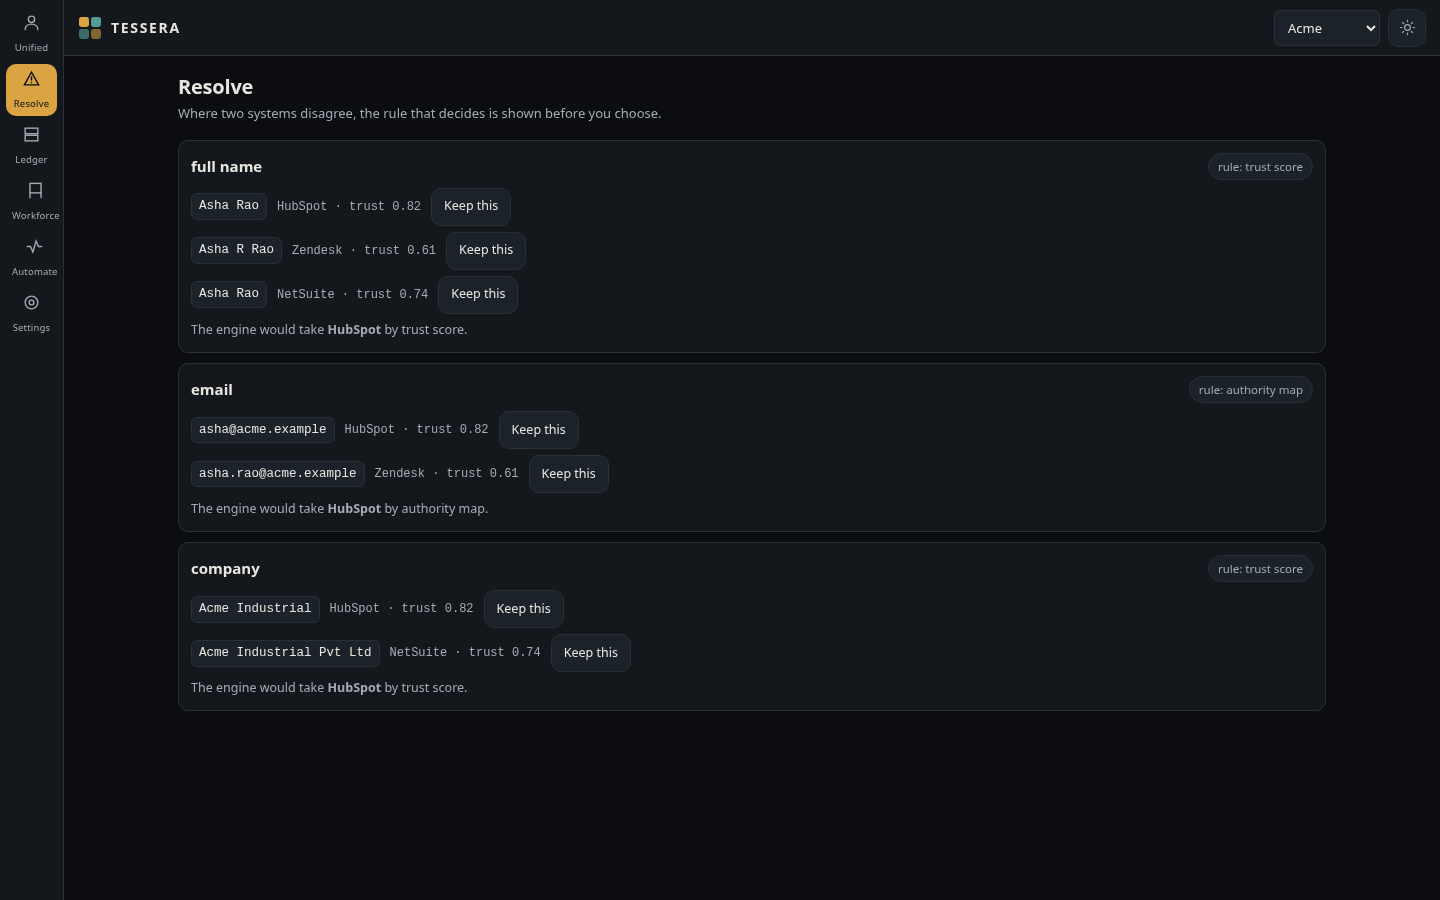
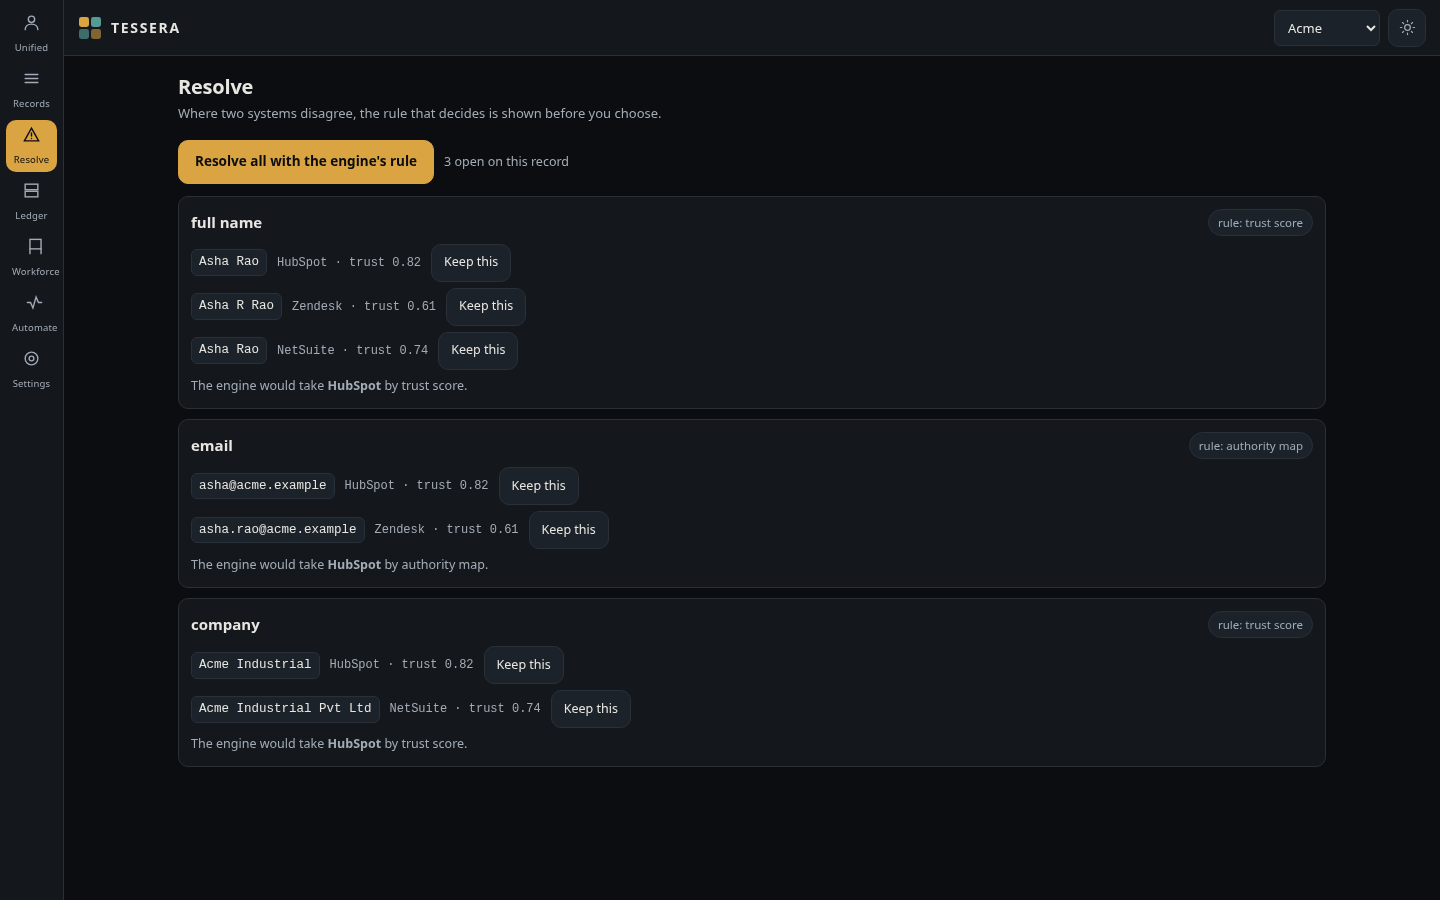
resolve: bulk action, and undo as a compensating event
- One button applies the engine's own rule to every open conflict on a record,
  as a single ledger event, and says how many it took.
- Resolving a field, or all of them, shows Undo in the toast for nine seconds.
  Undo writes conflict.reopened and restores the previous state; the original
  choice stays in the chain.

Every other tool in this category implements undo as a state rollback. In an
append-only ledger the honest version is a new event that reverses the old one,
and it is the version that survives an audit. The app now demonstrates that
rather than describing it.

diff --git a/index.html b/index.html
@@ -204,7 +204,10 @@ a{color:var(--accent)}
 #toast{position:fixed;left:50%;transform:translateX(-50%);bottom:calc(74px + env(safe-area-inset-bottom));
   background:var(--raise);border:1px solid var(--line);border-radius:999px;padding:10px 16px;font-size:13px;
   opacity:0;pointer-events:none;transition:opacity var(--base);z-index:60;max-width:92vw}
-#toast[data-show]{opacity:1}
+#toast[data-show]{opacity:1;pointer-events:auto}
+#toast .undo{margin-left:12px;border:1px solid var(--accent);color:var(--accent);
+  border-radius:999px;padding:4px 12px;font-size:12px;font-weight:600}
+#toast .undo:hover{background:var(--accent);color:var(--accent-ink)}
 
 /* ---- small screens ------------------------------------------------------- */
 @media (max-width:860px){
@@ -344,6 +347,10 @@ a{color:var(--accent)}
     <section class="view" id="conflicts">
       <h1>Resolve</h1>
       <p class="sub">Where two systems disagree, the rule that decides is shown before you choose.</p>
+      <div class="row" style="margin-bottom:12px">
+        <button class="btn primary" id="resolveAll">Resolve all with the engine's rule</button>
+        <span class="note" id="conflictSummary"></span>
+      </div>
       <div id="conflictList"></div>
     </section>
 
@@ -760,12 +767,20 @@ async function verifyChain() {
 }
 
 /* ---- rendering ---------------------------------------------------------- */
-function toast(message) {
+function toast(message, onUndo) {
   const el = $("#toast");
-  el.textContent = message;
+  el.textContent = "";
+  el.append(document.createTextNode(message));
+  if (onUndo) {
+    const button = document.createElement("button");
+    button.className = "undo";
+    button.textContent = "Undo";
+    button.onclick = () => { el.removeAttribute("data-show"); onUndo(); };
+    el.append(button);
+  }
   el.setAttribute("data-show", "");
   clearTimeout(toast._t);
-  toast._t = setTimeout(() => el.removeAttribute("data-show"), 2400);
+  toast._t = setTimeout(() => el.removeAttribute("data-show"), onUndo ? 9000 : 2400);
 }
 
 function currentValue(field) {
@@ -891,12 +906,67 @@ function renderTimeline() {
     <li><time>${item.at} · ${NODES[item.node].label}</time><p>${item.text}</p></li>`).join("");
 }
 
+function engineWinner(field) {
+  const candidates = RECORD[field] || {};
+  const authority = Object.fromEntries(Object.entries(candidates).map(([node]) =>
+    [node, NODES[node].authority[field] || "bidirectional"]));
+  return resolveField(field, candidates, authority);
+}
+
+async function resolveFieldTo(field, node) {
+  const key = state.selected + "|" + field;
+  const before = state.resolved[key];
+  state.resolved[key] = node;
+  save();
+  await appendEvent("conflict.resolved", "human", { field, winner: node });
+  renderAll();
+  toast(`Kept ${NODES[node].label} for ${field.replace(/_/g, " ")}`, async () => {
+    if (before === undefined) delete state.resolved[key];
+    else state.resolved[key] = before;
+    save();
+    await appendEvent("conflict.reopened", "human", { field, was: node });
+    renderAll();
+    toast("Reverted - the conflict is open again");
+  });
+}
+
+async function resolveAll() {
+  const fields = Object.keys(RECORD).filter(isConflict);
+  if (!fields.length) { toast("Nothing to resolve on this record"); return; }
+  const before = { ...state.resolved };
+  const winners = {};
+  for (const field of fields) {
+    const winner = engineWinner(field);
+    state.resolved[state.selected + "|" + field] = winner.node;
+    winners[field] = winner.node;
+  }
+  save();
+  await appendEvent("conflict.bulk_resolved", "human", { fields: fields.length, winners });
+  renderAll();
+  toast(`${fields.length} resolved by the engine's rule`, async () => {
+    state.resolved = before;
+    save();
+    await appendEvent("conflict.bulk_reopened", "human", { fields: fields.length });
+    renderAll();
+    toast("Reverted - every conflict is open again");
+  });
+}
+
 function renderConflicts() {
   const host = $("#conflictList");
   const fields = Object.keys(RECORD).filter(isConflict);
+  $("#conflictSummary").textContent = fields.length
+    ? `${fields.length} open on this record`
+    : "nothing open on this record";
+  $("#resolveAll").disabled = fields.length === 0;
+  $("#resolveAll").style.opacity = fields.length === 0 ? ".5" : "1";
   if (!fields.length) {
     host.innerHTML = `<div class="card"><div class="body"><p class="note">
-      Nothing to resolve. Every field agrees, or you have already chosen.</p></div></div>`;
+      Nothing to resolve. Every field agrees, or you have already chosen.
+      <button class="rowaction" id="toRecords" style="margin-left:10px">Pick another customer</button>
+      </p></div></div>`;
+    const jump = $("#toRecords");
+    if (jump) jump.onclick = () => go("records");
     return;
   }
   host.innerHTML = fields.map(field => {
@@ -919,13 +989,9 @@ function renderConflicts() {
     </div>`;
   }).join("");
   $$("[data-pick]", host).forEach(btn => {
-    btn.onclick = async () => {
+    btn.onclick = () => {
       const [field, node] = btn.dataset.pick.split("|");
-      state.resolved[state.selected + "|" + field] = node;
-      save();
-      await appendEvent("conflict.resolved", "human", { field, winner: node });
-      renderAll();
-      toast(`Kept ${NODES[node].label}'s value for ${field.replace(/_/g, " ")}`);
+      resolveFieldTo(field, node);
     };
   });
 }
@@ -1173,6 +1239,8 @@ $("#reset").onclick = async () => {
 };
 
 /* ---- workforce actions -------------------------------------------------- */
+$("#resolveAll").onclick = () => resolveAll();
+
 $("#assign").onclick = async () => {
   const best = SEATS.map(seat => ({ seat, ...routeScore({
     capability_match: seat.capability, authority_match: 1, sla_headroom: 1 - seat.load,

diff --git a/ENHANCEMENTS.md b/ENHANCEMENTS.md
@@ -13,7 +13,7 @@ Ordered by what a person would notice first.
 |---|---|---|---|
 | 1 | ~~**Real record search**~~ — a `/` search over all records with keyboard selection | **Shipped in 1.2.0.** Ten records, `/` to search, Enter to open | done |
 | 2 | **Multi-record list** — shipped in 1.2.0. **Saved views** (filter, sort, save, restore) still open | Turns the console from a showcase into something you would open on a Monday | M |
-| 3 | **Bulk resolve** — apply one rule to every conflict of the same kind | Resolving thirty emails one at a time is where adoption dies | S |
+| 3 | ~~**Bulk resolve**~~ — apply one rule to every conflict of the same kind | **Shipped in 1.3.0.** One button, engine's rule, undoable | done |
 | 4 | ~~**Field history popover**~~ — click any value, see every write with actor and time | **Shipped in 1.1.0.** The ledger is the differentiator; hiding it behind a tab wasted it | done |
 | 5 | **Conflict preview before merge** — a diff of what changes if you accept a rule | Turns a guess into a decision | S |
 | 6 | **Connector status strip** — per system: last sync, error count, staleness | The one screen an operator actually needs at 9am | S |
@@ -24,7 +24,7 @@ Ordered by what a person would notice first.
 | 11 | **Deep links** — `#unified/contact/123` opens that record | Makes the app shareable in Slack, which is how tools spread | S |
 | 12 | **Notes and mentions** — a comment thread per record, stored locally | A record without a conversation is a report | M |
 | 13 | **Assign to me** — a one-tap self-assign that logs a ledger event | The most common action in any support tool | S |
-| 14 | **Undo everywhere** — a 10-second undo on every mutation, as a new event | Undo by compensating event is the ledger's superpower and nothing uses it | M |
+| 14 | **Undo** — shipped for resolve and bulk resolve in 1.3.0. **Still to do:** assign, escalate, workflow fire | Undo by compensating event is the ledger's superpower and nothing used it | M |
 | 15 | **Mobile share target** — register as a share target so a contact can be pasted in | The only way a phone app gets used | S |
 
 **S = hours, M = a day or two, L = a week.** Nothing here adds a dependency.

diff --git a/README.md b/README.md
@@ -40,8 +40,8 @@ shows **where every value came from**, and records the whole thing in a hash cha
 |---|---|
 | **Records** | Ten customers, one row each, with the systems that disagree counted. `/` searches by name, company or email; Enter opens the first hit. |
 | **Unified** | One record. Every field names the system it came from and the rule that chose it. Click any value for its full write history. Conflicting fields are flagged in place. |
-| **Resolve** | Both values, both trust scores, and the rule the engine would apply — authority map, trust, or human review. Choose and it is logged. |
-| **Ledger** | Every event, SHA-256 chained. **Verify chain** recomputes it locally. **Tamper** proves the verification works. |
+| **Resolve** | Both values, both trust scores, and the rule the engine would apply. Choose one, or **resolve all** with the engine's rule. Every choice is logged and every choice can be undone. |
+| **Ledger** | Every event, SHA-256 chained. **Verify chain** recomputes it locally. **Tamper** proves the verification works. An undo is a new event, never a deleted one. |
 | **Workforce** | Work goes to a position, not a person. The router shows its term-by-term arithmetic. Escalation produces a signed handoff packet. |
 | **Automate** | A workflow written by an agent is a proposal. The run button is disabled until a person approves it. |
 | **Settings** | Theme and density, stored on this device. Nothing leaves the browser. |

diff --git a/CHANGELOG.md b/CHANGELOG.md
@@ -1,5 +1,21 @@
 # Changelog
 
+## [1.3.0] - 2026-11-14
+
+### Added
+
+- **Bulk resolve.** One button applies the engine's own rule to every open conflict on a record, as a single
+  ledger event, and tells you how many it took.
+- **Undo.** Resolving a field, or all of them, shows an Undo button in the toast for nine seconds. Undo writes a
+  **compensating event** - `conflict.reopened` - and restores the previous state. The original choice stays in the
+  chain, because a ledger that deletes is not a ledger.
+
+### Why undo matters here
+
+Every other tool in this category implements undo as a state rollback. In an append-only ledger the honest version
+is a new event that reverses the old one, which is also the version that survives an audit. The app now demonstrates
+that rather than describing it.
+
 ## [1.2.0] - 2026-11-14
 
 ### Added
